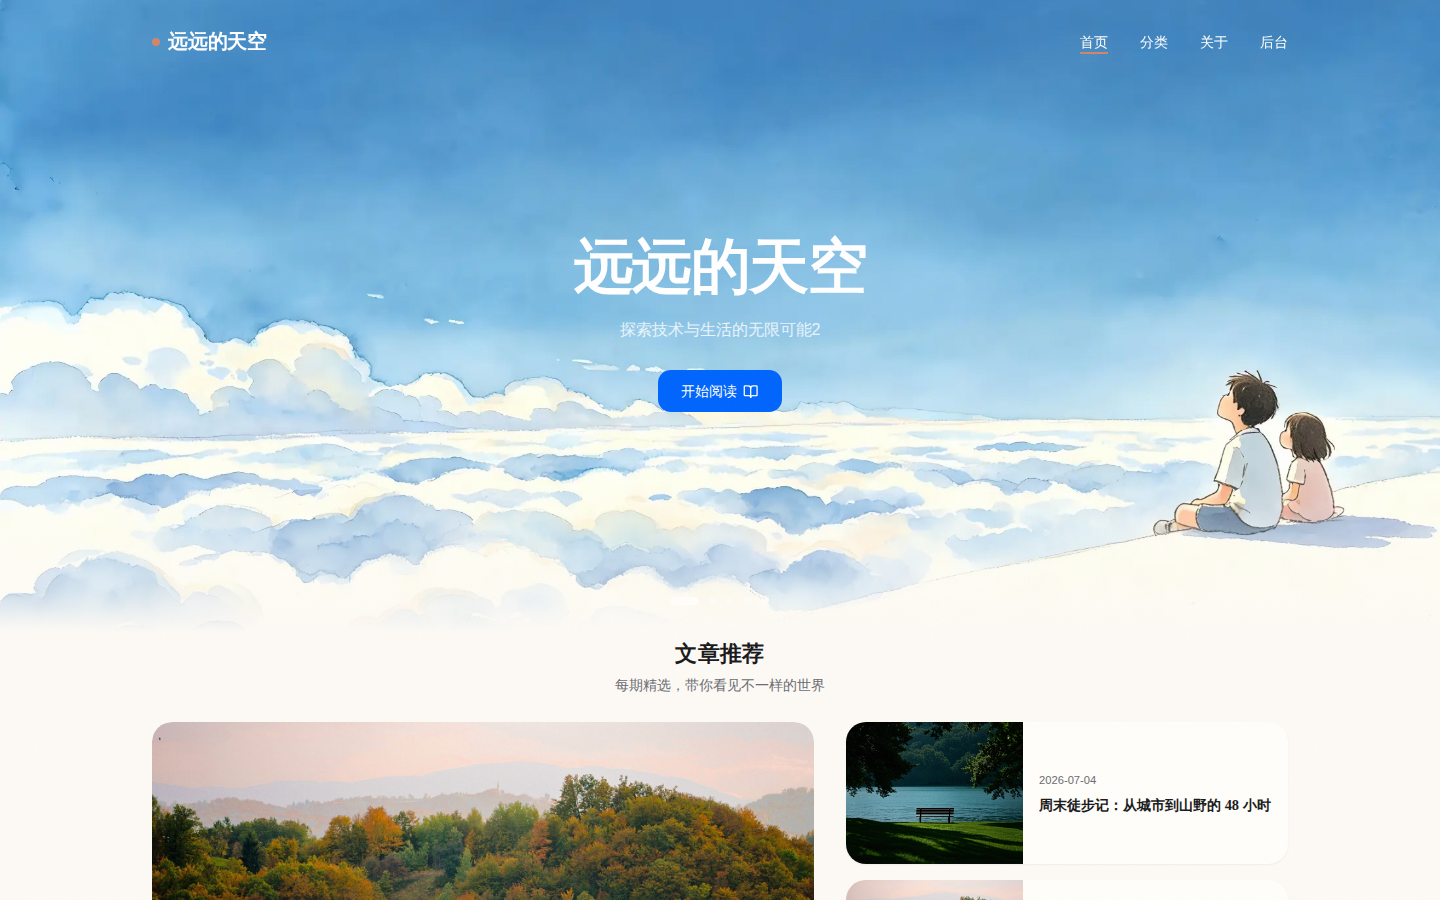
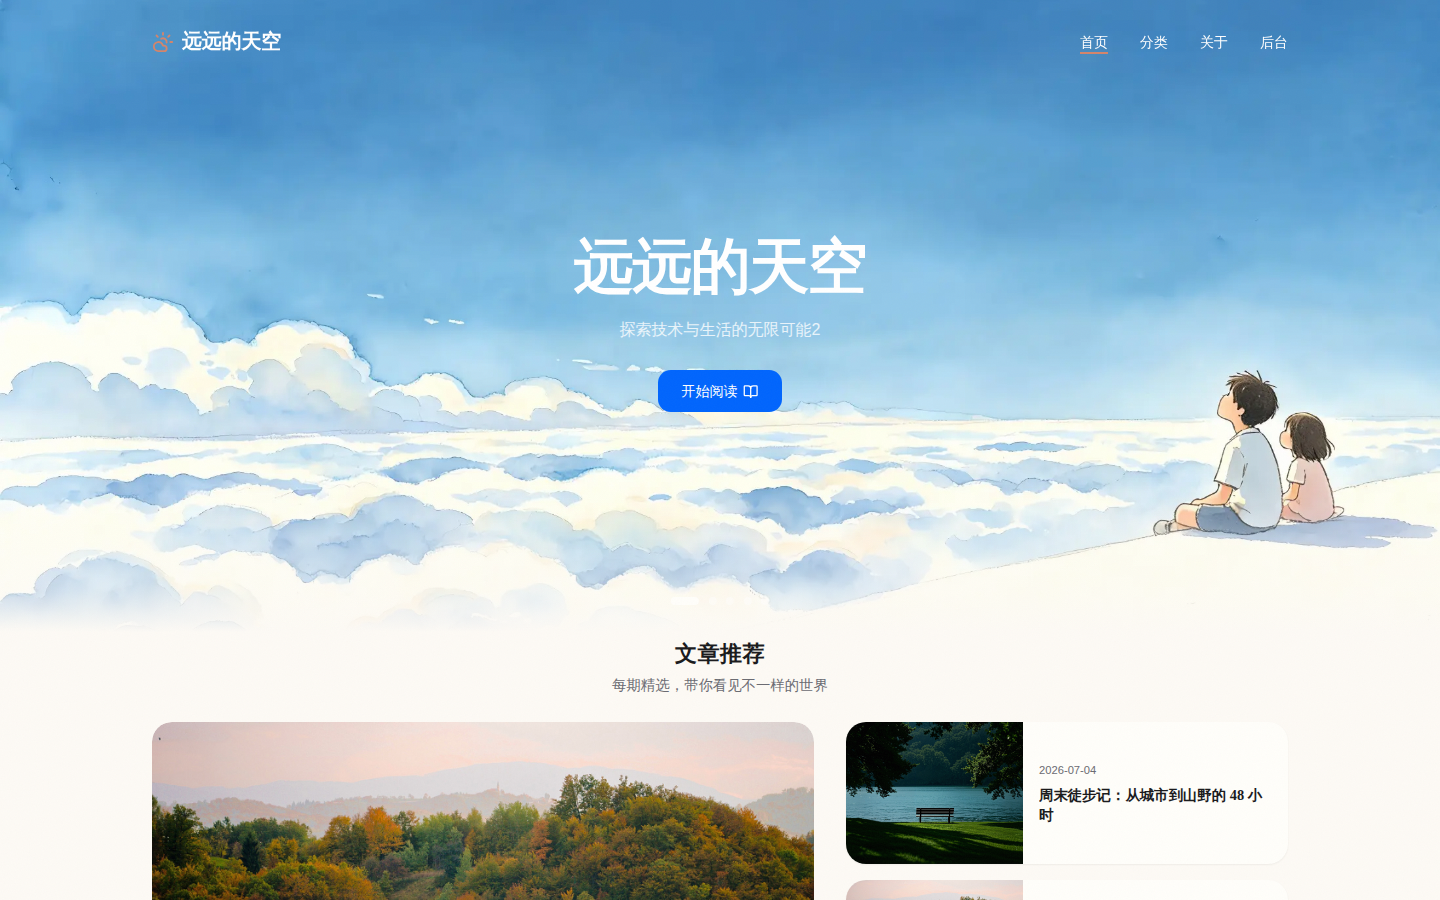
docs: 更新 README 和截图，同步 v0.2.0 功能变更
- 更新系统截图（首页、登录页、后台仪表盘、文章管理、轮播图管理、文章详情）
- 补充 v0.2.0 新增功能描述（修改账号、上下线、编辑器改进等）
- 更新 API 路由表、数据模型、项目结构
- 添加版本标识 v0.2.0

diff --git a/README.md b/README.md
@@ -1,8 +1,9 @@
 # 远远的天空 — 个人博客系统
 
-一个基于 **Vue 3 + Flask** 的全功能个人博客系统，支持文章管理、轮播图管理、分类标签、文章推荐等功能。
+一个基于 **Vue 3 + Flask** 的全功能个人博客系统，支持文章管理、轮播图管理、分类标签、文章推荐、管理员账号管理等功能。
 
-> **GitHub**: [github.com/jingzty/yuanyuan_blog](https://github.com/jingzty/yuanyuan_blog)
+> **GitHub**: [github.com/jingzty/yuanyuan_blog](https://github.com/jingzty/yuanyuan_blog)  
+> **版本**: v0.2.0
 
 ---
 
@@ -10,30 +11,33 @@
 
 | 页面 | 预览 |
 |------|------|
-| **首页** — Hero 轮播 + 文章列表 + 侧边栏 | ![首页](pic/01-home.png) |
-| **登录页** — 渐变背景 + 验证码登录 | ![登录页](pic/02-login.png) |
-| **后台仪表盘** — 统计卡片 + 后台布局 | ![后台仪表盘](pic/03-admin-dashboard.png) |
-| **文章管理** — 表格 + 筛选 + 分页 | ![文章管理](pic/04-admin-articles.png) |
+| **首页** — Hero 轮播 + 文章列表 + 关于博主侧边栏 | ![首页](pic/01-home.png) |
+| **登录页** — 渐变背景 + 验证码登录 + 云朵装饰 | ![登录页](pic/02-login.png) |
+| **后台仪表盘** — 统计卡片 + 侧边栏导航 | ![后台仪表盘](pic/03-admin-dashboard.png) |
+| **文章管理** — 表格 + 筛选 + 上线/下线快捷操作 | ![文章管理](pic/04-admin-articles.png) |
 | **轮播图管理** — 图片预览 + 排序 + 状态 | ![轮播图管理](pic/05-admin-banners.png) |
-| **文章详情** — Markdown 渲染 + 上下篇 | ![文章详情](pic/06-article-detail.png) |
+| **文章详情** — Markdown 渲染 + 上下篇导航 | ![文章详情](pic/06-article-detail.png) |
 
 ---
 
 ## ✨ 功能特性
 
 ### 前台功能
-- **Hero 轮播** — 3 张幻灯片，自动播放（5000ms 间隔），悬停暂停，左右切换 + 圆点指示器
+- **Hero 轮播** — 3 张幻灯片，自动播放（5000ms 间隔），悬停暂停，左右切换 + 圆点指示器，侧栏切换动画
 - **文章列表** — 展示最新 5 篇文章，包含封面、摘要、分类、标签、阅读量
-- **文章详情** — Markdown 渲染，上下篇导航，进入自动计数阅读量
-- **侧边栏** — 全文搜索、热门标签云、分类列表、关于博主
+- **文章详情** — Markdown 渲染，上下篇导航，进入自动计数阅读量，CloudSun 图标 logo
+- **侧边栏** — 全文搜索、热门标签云、分类列表、关于博主（居中头像+昵称布局）
 - **响应式布局** — 适配移动端到桌面端
+- **站点图标** — SVG favicon 与 CloudSun 品牌标识
 
 ### 后台管理
 - **仪表盘** — 统计数据概览
-- **文章管理** — CRUD 操作，Markdown 编辑器，草稿/发布状态
+- **文章管理** — CRUD 操作，Markdown 编辑器，草稿/发布状态，上线/下线快捷操作
+- **文章编辑** — 源码/所见即所得双模式，工具栏支持标题下拉选择（H1-H4）、加粗、斜体、链接、引用、代码块、图片
 - **轮播图管理** — 添加/编辑/排序/启用禁用
 - **文章推荐** — 精选文章管理
 - **分类管理** — 创建/编辑/删除
+- **个人中心** — 修改管理员账号（需密码确认）、修改密码
 - **JWT 认证** — 登录/登出，验证码保护
 
 ---
@@ -84,10 +88,11 @@ test5/
 │   │   ├── stores/auth.js      # 认证状态（Pinia）
 │   │   ├── api/                # API 请求层（axios）
 │   │   │   ├── request.js
-│   │   │   ├── auth.js
+│   │   │   ├── auth.js          # 登录/验证码/修改账号密码
 │   │   │   ├── article.js
 │   │   │   ├── banner.js
 │   │   │   ├── category.js
+│   │   │   ├── profile.js       # 博主资料 API
 │   │   │   └── featured.js
 │   │   ├── layouts/
 │   │   │   ├── FrontLayout.vue  # 前台布局（导航+页脚）
@@ -99,11 +104,12 @@ test5/
 │   │   │   ├── CategoryView.vue       # 分类文章
 │   │   │   └── admin/
 │   │   │       ├── DashboardView.vue      # 仪表盘
-│   │   │       ├── ArticleManageView.vue  # 文章管理
-│   │   │       ├── ArticleEditView.vue    # 新建/编辑文章
+│   │   │       ├── ArticleManageView.vue  # 文章管理（含上线/下线）
+│   │   │       ├── ArticleEditView.vue    # 新建/编辑文章（双模式编辑器）
 │   │   │       ├── BannerManageView.vue   # 轮播图管理
 │   │   │       ├── CategoryManageView.vue # 分类管理
-│   │   │       └── FeaturedManageView.vue # 文章推荐管理
+│   │   │       ├── FeaturedManageView.vue # 文章推荐管理
+│   │   │       └── ProfileManageView.vue  # 个人中心（修改账号/密码）
 │   │   └── components/
 │   │       ├── ArticleCard.vue  # 文章卡片组件
 │   │       └── StatCard.vue     # 统计卡片组件
@@ -194,6 +200,7 @@ npm run dev     # 启动开发服务器（默认 :5173）
 | 模型 | 说明 | 主要字段 |
 |------|------|----------|
 | `User` | 用户（单博主） | username, password_hash |
+| `Profile` | 博主资料 | avatar_url, nickname, bio |
 | `Article` | 文章 | title, summary, content, cover_url, view_count, status |
 | `Category` | 分类 | name, created_at |
 | `Banner` | 轮播图 | title, subtitle, image_url, link_url, sort_order |
@@ -209,10 +216,13 @@ npm run dev     # 启动开发服务器（默认 :5173）
 | GET | `/api/v1/auth/captcha` | 获取验证码 |
 | GET | `/api/v1/auth/me` | 当前用户信息 |
 | POST | `/api/v1/auth/logout` | 登出 |
+| POST | `/api/v1/auth/change-username` | 修改管理员账号 |
+| POST | `/api/v1/auth/change-password` | 修改密码 |
 | GET/POST/PUT/DELETE | `/api/v1/articles` | 文章 CRUD |
 | GET/POST/PUT/DELETE | `/api/v1/banners` | 轮播图 CRUD |
 | GET/POST/PUT/DELETE | `/api/v1/categories` | 分类 CRUD |
 | GET/POST/PUT/DELETE | `/api/v1/featured` | 文章推荐 CRUD |
+| GET/PUT | `/api/v1/profile` | 博主资料 CRUD |
 
 ---
 
